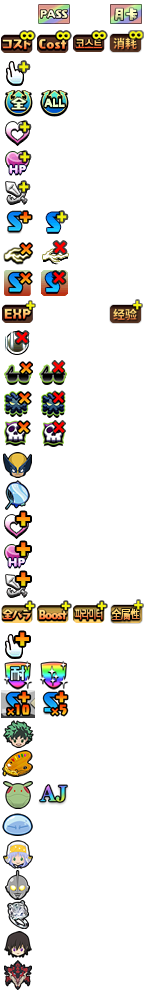
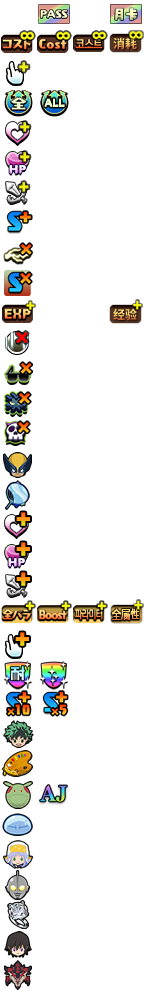
更换x5图片为x10

Changed region(s): [[0.2778, 0.3636, 0.4722, 0.4545], [0.2778, 0.2121, 0.4722, 0.303], [0.0, 0.697, 0.25, 0.7273]]

diff --git a/service-worker.js b/service-worker.js
@@ -33603,7 +33603,7 @@ const cachesMap = new Map([
 	],
 	[
 		"script.js",
-		"480d5520a7c21c03f10732b32287864e"
+		"1e3a96d32b5140964a2c77b4ca747cf6"
 	],
 	[
 		"solo.html",
@@ -33695,7 +33695,7 @@ const cachesMap = new Map([
 	],
 	[
 		"images/badge.png",
-		"e595fa16fb6b2e78d07393f220aef29c"
+		"9cf6679cba179c98eed42b7f561b1e6a"
 	],
 	[
 		"images/brown-button.svg",

diff --git a/script.js b/script.js
@@ -3965,6 +3965,8 @@ function initialize() {
 		label.setAttribute("data-badge-icon", bgId);
 		label.setAttribute("for", radio.id);
 		teamBadgeUl.appendChild(li);
+
+		if (bgId === 20) li.classList.add(className_displayNone); //全属性徽章，从来没用过
 	});
 	
 	teamBigBoxs.forEach((teamBigBox, teamIdx) => {
